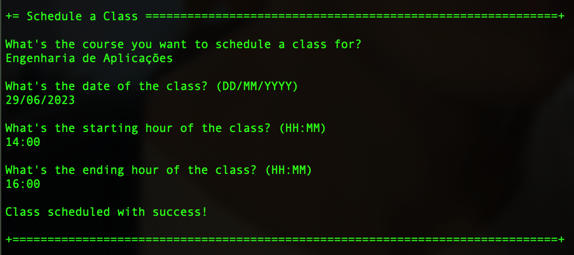
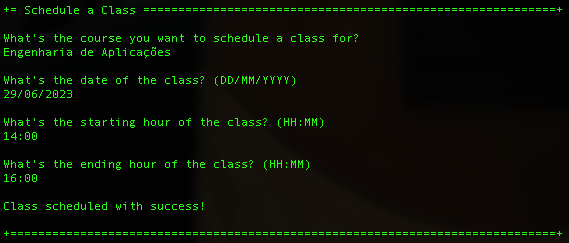
#18 Persistence

diff --git a/ecourse.app.teacher.console/src/main/java/eapli/ecourse/app/teacher/console/presentation/classes/ScheduleClassUI.java b/ecourse.app.teacher.console/src/main/java/eapli/ecourse/app/teacher/console/presentation/classes/ScheduleClassUI.java
@@ -1,6 +1,5 @@
 package eapli.ecourse.app.teacher.console.presentation.classes;
 
-import eapli.ecourse.Application;
 import eapli.ecourse.classmanagement.application.ScheduleClassController;
 import eapli.framework.domain.repositories.ConcurrencyException;
 import eapli.framework.domain.repositories.IntegrityViolationException;
@@ -8,8 +7,8 @@ import eapli.framework.io.util.Console;
 import eapli.framework.presentation.console.AbstractUI;
 import org.slf4j.Logger;
 import org.slf4j.LoggerFactory;
+
 import java.util.Calendar;
-import java.text.SimpleDateFormat;
 import java.util.Date;
 
 public class ScheduleClassUI extends AbstractUI {
@@ -19,26 +18,40 @@ public class ScheduleClassUI extends AbstractUI {
 
     @Override
     protected boolean doShow() {
-        String name = Console.readLine("Course");
-        Date openDate = Console.readDate("Insert the date of the class.", "dd/mm/yyyy");
-        Date openHour = Console.readDate("Insert the starting hour of the class.", "hh:mm");
-        Date closeHour = Console.readDate("Insert the ending hour of the class.", "hh:mm");
-        int instructorID = Console.readInteger("Insert your instructor ID.");
+        String name = Console.readLine("What's the course you want to schedule a class for?");
+        Date openDate = Console.readDate("\nWhat's the date of the class? (DD/MM/YYYY)", "dd/MM/yyyy");
+        Date openHour = Console.readDate("\nWhat's the starting hour of the class? (HH:MM)", "hh:mm");
+        Date closeHour = Console.readDate("\nWhat's the ending hour of the class? (HH:MM)", "hh:mm");
 
         Calendar classDateTime = Calendar.getInstance();
         Calendar classEndTime = Calendar.getInstance();
-        classDateTime.set(openDate.getYear(), openDate.getMonth(), openDate.getDay(), openHour.getHours(), openHour.getMinutes(), openHour.getSeconds());
-        classEndTime.set(openDate.getYear(), openDate.getMonth(), openDate.getDay(), closeHour.getHours(), closeHour.getMinutes(), closeHour.getSeconds());
+        classDateTime.setTime(openDate);
+        classDateTime.set(Calendar.HOUR_OF_DAY, openHour.getHours());
+        classDateTime.set(Calendar.MINUTE, openHour.getMinutes());
+
+        classEndTime.setTime(openDate);
+        classEndTime.set(Calendar.HOUR_OF_DAY, closeHour.getHours());
+        classEndTime.set(Calendar.MINUTE, closeHour.getMinutes());
+
+        if (classDateTime.before(Calendar.getInstance())) {
+            System.out.println("\nThe date of the class has already passed. Try again with a future date.\n");
+            return false;
+        }
+
+        if (classDateTime.after(classEndTime)) {
+            System.out.println("\nThe starting hour must be before the ending hour. Try again with valid hours.\n");
+            return false;
+        }
 
         try {
-            System.out.println("1!");
             controller.scheduleClass(name, classDateTime, classEndTime);
-            System.out.println("\nClass scheduled with success!");
+            System.out.println("\nClass scheduled with success!\n");
         } catch (IntegrityViolationException | ConcurrencyException ex) {
             LOGGER.error("Error performing the operation", ex);
-            System.out.println("Unfortunately there was an unexpected error in the application. " +
-                    "Please try again and if the problem persists, contact your system administrator.");
+            System.out.println("Unfortunately, there was an unexpected error in the application. " +
+                    "Please try again, and if the problem persists, contact your system administrator.");
         }
+
         return false;
     }
 

diff --git a/ecourse.app.manager.console/src/main/java/eapli/ecourse/app/manager/console/presentation/MainMenu.java b/ecourse.app.manager.console/src/main/java/eapli/ecourse/app/manager/console/presentation/MainMenu.java
@@ -28,7 +28,6 @@ import eapli.ecourse.app.manager.console.presentation.authz.AddUserUI;
 import eapli.ecourse.app.manager.console.presentation.authz.DeactivateUserAction;
 import eapli.ecourse.app.manager.console.presentation.authz.ListUsersAction;
 import eapli.ecourse.app.common.console.presentation.boards.CreateBoardUI;
-import eapli.ecourse.app.manager.console.presentation.classes.ScheduleClassUI;
 import eapli.ecourse.app.manager.console.presentation.course.*;
 import eapli.ecourse.app.manager.console.presentation.studentuser.AcceptRefuseSignupRequestAction;
 import eapli.ecourse.app.manager.console.presentation.teacheruser.AssignTeacherToCourseUI;
@@ -71,10 +70,6 @@ public class MainMenu extends AbstractUI {
     private static final int OPEN_CLOSE_ENROLL = 4;
     private static final int ASSIGN_TEACHER = 5;
     private static final int ANSWER_ENROLLMENT = 6;
-
-    // CLASS
-
-    private static final int SCHEDULE_CLASS = 1;
 
     // SETTINGS
     private static final int SET_KITCHEN_ALERT_LIMIT_OPTION = 1;
@@ -135,8 +130,6 @@ public class MainMenu extends AbstractUI {
             mainMenu.addSubMenu(USERS_OPTION, usersMenu);
             final Menu coursesMenu = buildCoursesMenu();
             mainMenu.addSubMenu(COURSES_OPTION, coursesMenu);
-            final Menu classesMenu = buildClassesMenu();
-            mainMenu.addSubMenu(CLASSES_OPTION, classesMenu);
             final Menu boardMenu = buildBoardMenu();
             mainMenu.addSubMenu(BOARD_OPTION, boardMenu);
             final Menu settingsMenu = buildAdminSettingsMenu();
@@ -197,14 +190,4 @@ public class MainMenu extends AbstractUI {
 
         return menu;
     }
-
-    private Menu buildClassesMenu() {
-        final Menu menu = new Menu("Classes >");
-
-        menu.addItem(SCHEDULE_CLASS, "Schedule a Class", new ScheduleClassUI()::show);
-        menu.addItem(EXIT_OPTION, RETURN_LABEL, Actions.SUCCESS);
-        return menu;
-    }
-
-
 }

diff --git a/ecourse.core/src/main/java/eapli/ecourse/classmanagement/application/ScheduleClassController.java b/ecourse.core/src/main/java/eapli/ecourse/classmanagement/application/ScheduleClassController.java
@@ -1,7 +1,7 @@
 package eapli.ecourse.classmanagement.application;
 
 import eapli.ecourse.classmanagement.domain.SchClass;
-import eapli.ecourse.coursemanagement.repositories.ClassRepository;
+import eapli.ecourse.classmanagement.repositories.ClassRepository;
 import eapli.ecourse.infrastructure.persistence.PersistenceContext;
 import eapli.ecourse.usermanagement.domain.BaseRoles;
 import eapli.framework.infrastructure.authz.application.AuthorizationService;
@@ -11,13 +11,13 @@ import java.util.Calendar;
 
 public class ScheduleClassController {
     private final AuthorizationService authz = AuthzRegistry.authorizationService();
-    private final ClassRepository classRepository = new ClassRepository();
+    private final ClassRepository classRepository = PersistenceContext.repositories().classes();
 
     public SchClass scheduleClass(String className, Calendar startTime, Calendar endTime) {
-        authz.ensureAuthenticatedUserHasAnyOf(BaseRoles.POWER_USER, BaseRoles.ADMIN);
+        authz.ensureAuthenticatedUserHasAnyOf(BaseRoles.POWER_USER, BaseRoles.ADMIN, BaseRoles.TEACHER);
 
         SchClass classs = new SchClass(className, startTime, endTime);
 
-        return this.classRepository.add(classs);
+        return this.classRepository.save(classs);
     }
 }

diff --git a/ecourse.core/src/main/java/eapli/ecourse/classmanagement/domain/SchClass.java b/ecourse.core/src/main/java/eapli/ecourse/classmanagement/domain/SchClass.java
@@ -4,18 +4,35 @@ import eapli.framework.domain.model.AggregateRoot;
 import eapli.framework.domain.model.DomainEntities;
 import eapli.framework.validations.Preconditions;
 
+import javax.persistence.*;
 import java.util.Calendar;
 
-public class SchClass implements AggregateRoot<Name> {
+@Entity
+public class SchClass implements AggregateRoot<Calendar> {
+    @Id
+    @GeneratedValue(strategy = GenerationType.AUTO)
+    private Long courseId;
+    @Column(nullable = false)
     private String course;
+
+    @Temporal(TemporalType.TIMESTAMP)
+    @Column(nullable = false)
     private Calendar startTime;
+
+    @Temporal(TemporalType.TIMESTAMP)
+    @Column(nullable = false)
     private Calendar endTime;
+
 
     public SchClass(String course, Calendar startTime, Calendar endTime) {
         Preconditions.noneNull(course, startTime, endTime);
         this.course = course.toString();
         this.startTime = startTime;
         this.endTime = endTime;
+    }
+
+    public SchClass() {
+
     }
 
     public String getCourse() {
@@ -58,7 +75,7 @@ public class SchClass implements AggregateRoot<Name> {
     }
 
     @Override
-    public Name identity() {
-        return null;
+    public Calendar identity() {
+        return this.startTime;
     }
 }

diff --git a/ecourse.persistence.impl/src/main/java/eapli/ecourse/persistence/impl/inmemory/InMemoryRepositoryFactory.java b/ecourse.persistence.impl/src/main/java/eapli/ecourse/persistence/impl/inmemory/InMemoryRepositoryFactory.java
@@ -21,9 +21,9 @@
 package eapli.ecourse.persistence.impl.inmemory;
 
 import eapli.ecourse.boardmanagement.repositories.BoardRepository;
-import eapli.ecourse.coursemanagement.repositories.ClassRepository;
 import eapli.ecourse.exammanagement.repositories.ExamRepository;
 import eapli.ecourse.exammanagement.repositories.ExamsInCourseRepository;
+import eapli.ecourse.persistence.impl.jpa.JpaClassRepository;
 import eapli.ecourse.usertypemanagement.studentusermanagement.repositories.ClientInExamRepository;
 import eapli.ecourse.usertypemanagement.teacherusermanagement.repositories.TeachersInCourseRepository;
 import eapli.ecourse.infrastructure.bootstrapers.BaseBootstrapper;
@@ -94,7 +94,11 @@ public class InMemoryRepositoryFactory implements RepositoryFactory {
 //    }
 
     @Override
-    public ClassRepository classes() {
+    public JpaClassRepository classes(final TransactionalContext autoTx) {
+        return null;
+    }
+    @Override
+    public JpaClassRepository classes() {
         return null;
     }
 

diff --git a/ecourse.persistence.impl/src/main/java/eapli/ecourse/persistence/impl/jpa/JpaRepositoryFactory.java b/ecourse.persistence.impl/src/main/java/eapli/ecourse/persistence/impl/jpa/JpaRepositoryFactory.java
@@ -22,7 +22,7 @@ package eapli.ecourse.persistence.impl.jpa;
 
 import eapli.ecourse.Application;
 import eapli.ecourse.boardmanagement.repositories.BoardRepository;
-import eapli.ecourse.coursemanagement.repositories.ClassRepository;
+import eapli.ecourse.classmanagement.repositories.ClassRepository;
 import eapli.ecourse.coursemanagement.repositories.CourseRepository;
 import eapli.ecourse.exammanagement.repositories.ExamRepository;
 import eapli.ecourse.exammanagement.repositories.ExamsInCourseRepository;
@@ -83,8 +83,12 @@ public class JpaRepositoryFactory implements RepositoryFactory {
     }
 
     @Override
+    public ClassRepository classes(final TransactionalContext autoTx) {
+        return new JpaClassRepository(autoTx);
+    }
+    @Override
     public ClassRepository classes() {
-        return null;
+        return new JpaClassRepository(Application.settings().getPersistenceUnitName());
     }
 
     @Override

diff --git a/ecourse.persistence.impl/src/main/java/eapli/ecourse/persistence/impl/jpa/JpaClassRepository.java b/ecourse.persistence.impl/src/main/java/eapli/ecourse/persistence/impl/jpa/JpaClassRepository.java
@@ -1,0 +1,22 @@
+package eapli.ecourse.persistence.impl.jpa;
+
+import eapli.ecourse.Application;
+import eapli.ecourse.classmanagement.domain.SchClass;
+import eapli.ecourse.classmanagement.repositories.ClassRepository;
+import eapli.framework.domain.repositories.TransactionalContext;
+import eapli.framework.infrastructure.repositories.impl.jpa.JpaAutoTxRepository;
+
+import javax.persistence.TypedQuery;
+import java.util.Calendar;
+
+public class JpaClassRepository extends JpaAutoTxRepository<SchClass, Long, Calendar> implements ClassRepository {
+
+    public JpaClassRepository(final TransactionalContext autoTx) {
+        super(autoTx, "courseId");
+    }
+
+    public JpaClassRepository(final String puname) {
+        super(puname, Application.settings().getExtendedPersistenceProperties(), "courseId");
+    }
+
+}

diff --git a/ecourse.core/src/main/java/eapli/ecourse/infrastructure/persistence/RepositoryFactory.java b/ecourse.core/src/main/java/eapli/ecourse/infrastructure/persistence/RepositoryFactory.java
@@ -21,7 +21,7 @@
 package eapli.ecourse.infrastructure.persistence;
 
 import eapli.ecourse.boardmanagement.repositories.BoardRepository;
-import eapli.ecourse.coursemanagement.repositories.ClassRepository;
+import eapli.ecourse.classmanagement.repositories.ClassRepository;
 import eapli.ecourse.coursemanagement.repositories.CourseRepository;
 import eapli.ecourse.exammanagement.repositories.ExamRepository;
 import eapli.ecourse.exammanagement.repositories.ExamsInCourseRepository;
@@ -99,6 +99,7 @@ public interface RepositoryFactory {
      * @return
      */
     CourseRepository courses();
+    ClassRepository classes(TransactionalContext autoTx);
 
     /**
      * repository will be created in auto transaction mode

diff --git a/ecourse.core/src/main/java/eapli/ecourse/classmanagement/repositories/ClassRepository.java b/ecourse.core/src/main/java/eapli/ecourse/classmanagement/repositories/ClassRepository.java
@@ -2,6 +2,7 @@ package eapli.ecourse.classmanagement.repositories;
 import eapli.ecourse.classmanagement.domain.SchClass;
 import eapli.framework.domain.repositories.DomainRepository;
 
-public interface ClassRepository {
+import java.util.Calendar;
 
+public interface ClassRepository extends DomainRepository<Calendar, SchClass>{
 }

diff --git a/docs/SprintB/us_1010/README.md b/docs/SprintB/us_1010/README.md
@@ -182,7 +182,4 @@ public class ScheduleClassController {
 ## 6. Integration/Demonstration
 
 ![](img.png)
-
-## 7. Observations
-
-Saving in the database and getting courses are not implemented yet.
+![](img_2.png)
